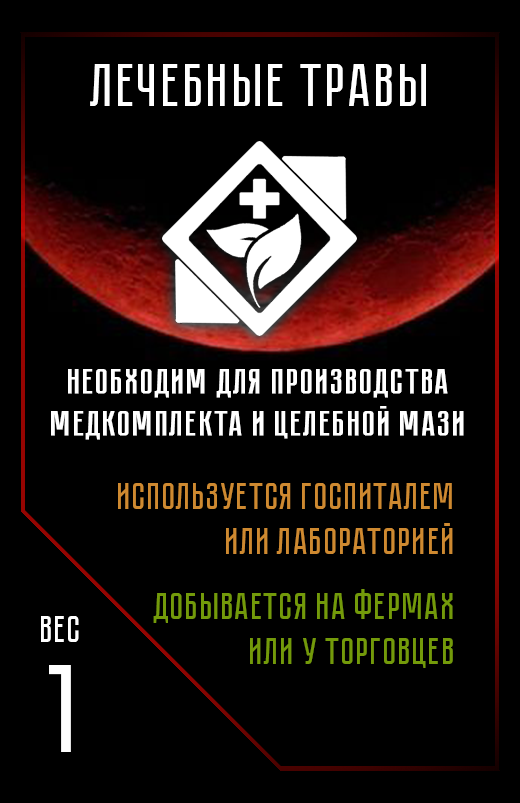
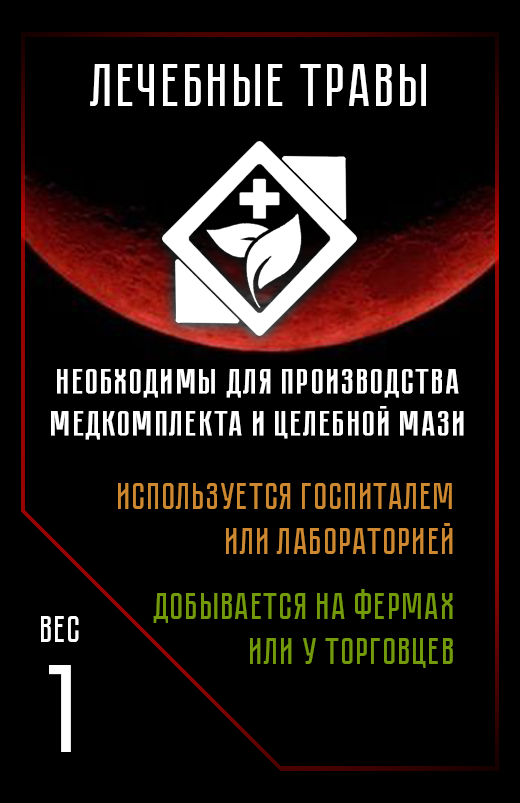
fix wording

Changed region(s): [[0.0923, 0.4359, 0.8923, 0.4981]]

diff --git a/src/pages/rules/resources/resources.tsx b/src/pages/rules/resources/resources.tsx
@@ -102,7 +102,7 @@ export function Resources(): JSX.Element {
           <div>Каждый предмет, который позволяет носить дополнительный вес (сумки, тачки телеги и т.д.) должен пройти регистрацию и получить на себя сертификат.</div>
           <div className={s.label}>Предметы повышающие грузоподъемность</div>
           <div className={s.listContainer}>
-            <li><LinkButton text='Сумка' onclick={() => handleClick(bag)}/> Бонус к грузоподъемности +2</li>
+            <li><LinkButton text='Корзина' onclick={() => handleClick(bag)}/> Бонус к грузоподъемности +2</li>
             <li><LinkButton text='Тачка' onclick={() => handleClick(barrow)}/> Бонус к грузоподъемности +4</li>
             <li><LinkButton text='Телега' onclick={() => handleClick(cart)}/> Бонус к грузоподъемности +6</li>
           </div>
@@ -110,12 +110,6 @@ export function Resources(): JSX.Element {
           <div>Грузоподъемность - один из важных игровых элементов, дающих возможность играть в распределение ресурсов, логистику</div>
           <div>Если вы превысили максимально допустимый вес, то вы теряете 1 живой хит, считается что вы надорвали спину</div>
         </div>
-        <div className={s.label}><i>Дополнительно</i></div>
-        <ol className={s.listContainer}>
-            <li>Грузоподъемность - один из важных игровых элементов, дающих возможность играть в распределение ресурсов, логистику - не игнорируйте ее.</li>
-            <li>Если вы превысили максимально допустимый вес, то вы переходите в состояние <b>"Тяжело ранен"</b>. Считается что вы надорвали спину.</li>
-            <li>Качество исполнения предмета, позволяющего переносить больший груз, может повлиять на его возможность переносить вес. (добавить или убавить возможность носить вес).</li>
-        </ol>
         <br />
 
         <div className={s.label}>{'Карты'.toUpperCase()}</div>

diff --git a/src/rules-text/examples/cargo/bag.tsx b/src/rules-text/examples/cargo/bag.tsx
@@ -10,12 +10,12 @@ import s from './cargo.module.css';
 const bags = [bag01, bag02, bag03];
 
 export const bag: Item = {
-  label: 'Сумка',
+  label: 'Корзина',
   element: 
     <>
       <ImagesAdaptive images={bags} />
       <div className={s.label}>Описание</div>
-      <div>Заплечная сумка для одиночного ношения</div>
+      <div>Заплечная корзина для одиночного ношения</div>
       <div className={s.label}>Эффект</div>
       <div>Добавляет 2 слота под предметы</div>
       <div className={s.label}>Требования</div>
@@ -30,7 +30,7 @@ export const bag: Item = {
         <li>Поясные сумки не считаются местом для хранения игровых ресурсов</li>
         <li>Сумка через плече может быть рассмотрена как предмет для переноса игровых ресурсов, исходя из ее объемов и антуражности</li>
         <li>При обыске хозяина сумки, если она находится недалеко от него, это действие распространяется и на сумку</li>
-        <li>На каждую сумку выдается специальный паспорт количеством предметов которые она может переносить. Предметы хранятся в этом паспорте</li>
+        <li>На каждую сумку выдается специальный паспорт с количеством предметов которые она может переносить. Предметы хранятся в этом паспорте</li>
         <li>Не отчуждаемый предмет</li>
       </div>
     </>

diff --git a/src/pages/rules/role/role.tsx b/src/pages/rules/role/role.tsx
@@ -104,7 +104,7 @@ export function Role(): JSX.Element {
     <>
       <div className={s.container}>
         <Chapter chapter='РОЛИ' />
-        <div>Каждый игрок на данном мероприятии должен иметь одну из выбранных ролей. Роли физически не ограничивают игроков, лишь дают возможность реализовать некоторые особые игромеханики. В случае если игрок при регистрации не соответствует требованиям выбранной роли ему будет выдана ближайшая роль, соответствующая его внешнему виду.</div>
+        <div>Каждый игрок на данном мероприятии должен иметь роль. В случае, если игрок при регистрации не соответствует требованиям выбранной роли МГ оставляет за собой право на наложение игрового штрафа, недопуск на заявленную роль с предложением замены роли или полный недопуск на проект данного игрока. Мера будет избираться в зависимости от степени несоответствия костюма заявленной роли.</div>
 
         <div className={s.label}>Роли отряда наемников</div>
         {mercenaryList}

diff --git a/src/rules-text/examples/cargo/barrow.tsx b/src/rules-text/examples/cargo/barrow.tsx
@@ -26,7 +26,7 @@ export const barrow: Item = {
       <div className={s.listContainer}>
         <li>Количество предметов, помещающихся в тачку может быть увеличено или уменьшено в зависимость от общего объема или антуража</li>
         <li>При обыске хозяина тачки, если она находится недалеко от него, это действие распространяется и на тачку</li>
-        <li>На каждую тачку выдается специальный паспорт количеством предметов которые она может переносить. Предметы хранятся в этом паспорте</li>
+        <li>На каждую тачку выдается специальный паспорт с количеством предметов которые она может переносить. Предметы хранятся в этом паспорте</li>
         <li>В случае отсутствия хозяина тачку можно обыскать отдельно, осмотрев ее игровой паспорт</li>
         <li>Может использоваться как часть оборонительных сооружений, если будет надежно закреплена</li>
         <li>Не отчуждаемый предмет</li>

diff --git a/src/rules-text/items/cards/prisoner.tsx b/src/rules-text/items/cards/prisoner.tsx
@@ -10,7 +10,7 @@ export const prisoner: Item = {
   element:
     <>
       <div className={s.icon}><img src={icon} alt='' /></div>
-      <div>Карта пленник нужна для определения того что игрок с повязкой <b>"Мертв"</b> может перейти в состояние <b>"Тяжело ранен"</b> внутри лагеря без посещения мертвяка.</div>
+      <div>Карта пленник нужна для определения того, что игрок с повязкой <b>"Мертв"</b> может перейти в состояние <b>"Тяжело ранен"</b> внутри лагеря, без посещения мертвяка.</div>
       <div>Выдается интендантом лагеря, в котором данного пленника продали.</div>
       <div>Хранится в ДК игрока, передается только между игроком и интендантом, как доказательство того что игрок может продолжить играть без отсидки мертвяка.</div>
       <div>В случае потери карты считается что игрок умер по дороге.</div>

diff --git a/src/rules-text/examples/cargo/cart.tsx b/src/rules-text/examples/cargo/cart.tsx
@@ -33,7 +33,7 @@ export const cart: Item = {
         <li>При обыске хозяина телеги, если она находится недалеко от него, это действие распространяется и на тачку</li>
         <li>В случае отсутствия хозяина телегу можно обыскать отдельно, осмотрев ее игровой паспорт</li>
         <li>Может использоваться как часть оборонительных сооружений, если будет надежно закреплена</li>
-        <li>На каждую тачку выдается специальный паспорт количеством предметов которые она может переносить. Предметы хранятся в этом паспорте</li>
+        <li>На каждую тачку выдается специальный паспорт с количеством предметов которые она может переносить. Предметы хранятся в этом паспорте</li>
         <li>Не отчуждаемый предмет</li>
       </div>
     </>

diff --git a/src/rules-text/items/cards/deck/artist-deck.tsx b/src/rules-text/items/cards/deck/artist-deck.tsx
@@ -13,7 +13,7 @@ export const artistDeck: Item = {
       <div>Может находится только у артиста, прошедшего все фотодопуски (в ДК делается соответствующая пометка).</div>
       <div className={s.label}><i>Общее</i></div>
       <ol className={s.listContainer}>
-        <li>Личный набор карт, которые смог собрать в течении игры артист в ходе своих выступлений.</li>
+        <li>Личный набор карт, которые смог собрать в течении игры артист, в ходе своих выступлений.</li>
         <li>В этой колоде могут хранится характерные для фаната психозы и карты <b>"Отдыха"</b>. Передавать или обменивать карты из этой колоды строжайше запрещено.</li>
         <li>Колоду нельзя отобрать во время обыска.</li>
         <li>Колода пропадает после смерти артиста.</li>

diff --git a/src/rules-text/items/cards/psyh.tsx b/src/rules-text/items/cards/psyh.tsx
@@ -10,8 +10,8 @@ export const psyh: Item = {
   element:
     <>
       <div className={s.icon}><img src={icon} alt='' /></div>
-      <div>Эти карты выдаются игрокам при посещении мертвяка по механике бросания кубиков (см. раздел <b>"Психозы"</b>).</div>
+      <div>Эти карты выдаются игрокам при посещении мертвяка, по механике бросания кубиков (см. раздел <b>"Психозы"</b>).</div>
       <div>На карте коротко описано действие психоза.</div>
-      <div>При получении нескольких психозов отыгрывается только тот у кого самый высший уровень.</div>
+      <div>При получении нескольких психозов, отыгрывается только тот, у кого самый высший уровень.</div>
     </>
 }

diff --git a/src/rules-text/items/cards/thief.tsx b/src/rules-text/items/cards/thief.tsx
@@ -10,7 +10,7 @@ export const thief: Item = {
   element:
     <>
       <div className={s.icon}><img src={icon} alt='' /></div>
-      <div>Эти карты выдаются игрокам на старте игры по требованию с определенным лимитом на день.</div>
+      <div>Эти карты выдаются игрокам на старте игры, по требованию, с определенным лимитом на день.</div>
       <div>Служат маркерами кражи.</div>
       <div>Демонстрация этой карты в открытую считается признанием в воровстве.</div>
       <div>В случае обнаружения этой карты в своих вещах, вы вправе ее тихо уничтожить без последствия для себя.</div>

diff --git a/src/rules-text/items/repair-potion.tsx b/src/rules-text/items/repair-potion.tsx
@@ -13,7 +13,7 @@ export const repairPotion: Item = {
     <>
       <div className={s.icon}><img src={card} alt='' /></div>
       <div className={s.label}>Эффекты</div>
-      <div>В случае не полной потери брони мгновенно восстанавливает броневые хиты</div>
+      <div>В случае не полной потери брони, мгновенно восстанавливает броневые хиты</div>
       <div className={s.label}>Вес: 0</div>
       <div className={s.label}>Ограничения:</div>
       <div className={s.listContainer}>

diff --git a/src/rules-text/items/ore.tsx b/src/rules-text/items/ore.tsx
@@ -13,7 +13,7 @@ export const ore: Item = {
     <>
       <div className={s.icon}><img src={card} alt='' /></div>
       <div className={s.label}>Эффекты</div>
-        <div>Руда необходимая для производства ремкомплектов</div>
+        <div>Руда необходима для производства ремкомплектов</div>
       <div className={s.label}>Вес: 1</div>
       <div className={s.label}>Ограничения:</div>
       

diff --git a/src/components/visual/cargo-visual.tsx b/src/components/visual/cargo-visual.tsx
@@ -33,7 +33,7 @@ function getCargoComponent(label: string, bonus: number): JSX.Element {
 
 const optionsCargo: OptionsCargo[] = [
   { value: 0, label: getCargoComponent('Ничего', 0)},
-  { value: 1, label: getCargoComponent('Сумка', 1)},
+  { value: 1, label: getCargoComponent('Корзина', 1)},
   { value: 2, label: getCargoComponent('Носилки', 2)},
   { value: 3, label: getCargoComponent('Тачка', 3)},
   { value: 4, label: getCargoComponent('Тележка', 4)},
